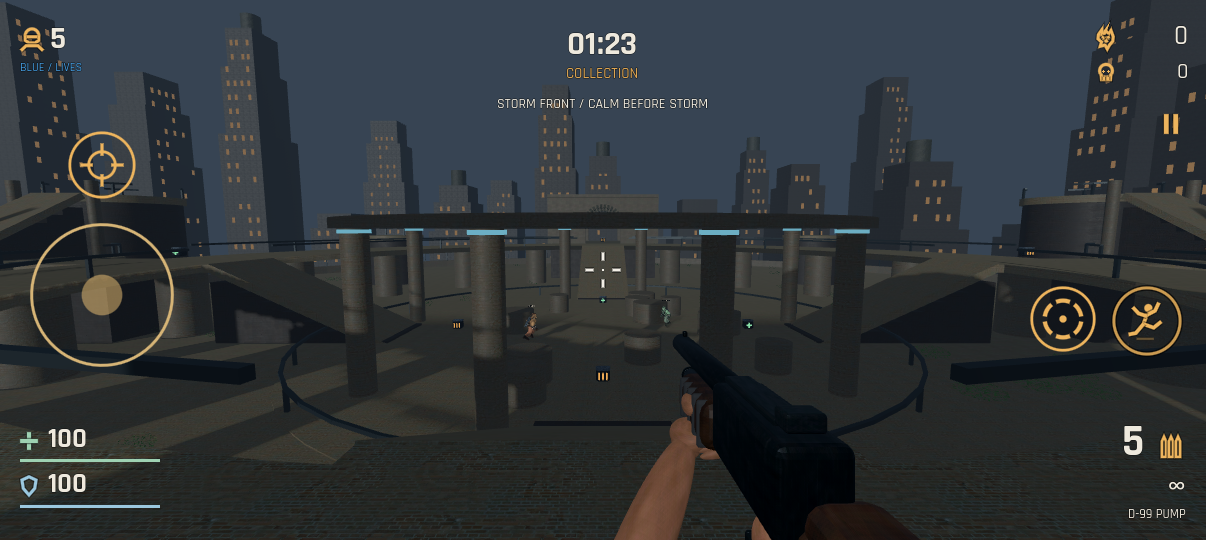
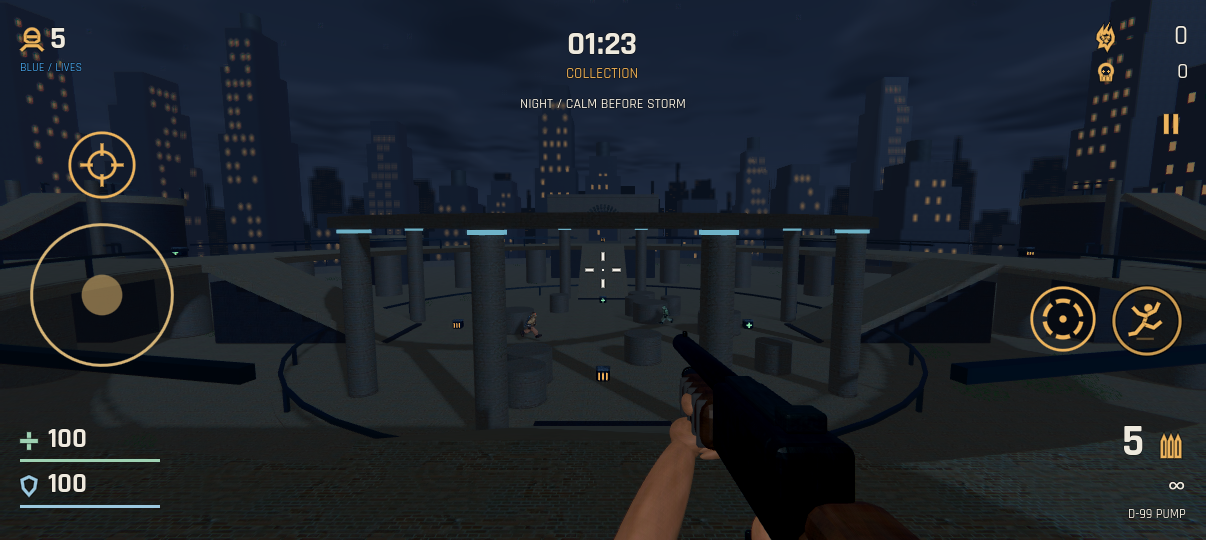
Add Nightfall sky clouds, stars and configurable soft lens effects

diff --git a/README.md b/README.md
@@ -2,9 +2,13 @@
 
 A dark sci-fi arena FPS set in a Neo-Prohibition New York for Android with free movement, portrait/landscape play, controller support, automatic soul rewards, and team deathmatches.
 
-**[Download APK — v0.12.0](https://github.com/Tweeksterr91/dominion-99-lite/releases/download/v0.12.0/dominion-99-lite.apk)** · **[Releases](https://github.com/Tweeksterr91/dominion-99-lite/releases)**
+**[Download APK — v0.13.0](https://github.com/Tweeksterr91/dominion-99-lite/releases/download/v0.13.0/dominion-99-lite.apk)** · **[Releases](https://github.com/Tweeksterr91/dominion-99-lite/releases)**
 
 Development prototype for the OnePlus 12R, built with Godot 4.6.3. Fixed **60 FPS cap**, automatic portrait/landscape rotation. Actual phone performance and Wi-Fi behavior still need device testing.
+
+![Stars, moon and clouds](docs/night-sky.png)
+
+![Visual settings](docs/visual-settings.png)
 
 ![Landscape controller HUD](docs/landscape.png)
 
@@ -89,6 +93,16 @@ The title and main menu have no shadow-gradient scrim; their live gameplay backg
 
 The shared borough maps are Canal Ward, Civic Undercroft, Ironworks, Verdant Conservatory and East River Docks. Original Art Deco sky silhouettes, 48 inaccessible stepped skyline buildings, amber windows and water towers establish the city backdrop. Small batched foliage patches and hanging vines add overgrowth. The environment caption uses names such as STORM FRONT or NIGHT, without a clock hour. Options persist aiming sensitivity from 50%–300% in 10% steps, with a 180% reset, invert aim, separate effects/music/ambience volumes, camera motion, and the screen-orientation preference. Everyone starts with a five-shell single-barrel pump shotgun **and a team-colored plasma scythe**. The shotgun has unlimited reserve ammunition and still reloads its magazine; the scythe has unlimited use with no reload. The sawed-off double-barrel upgrade costs 140 souls, has two shells and unlimited reserve, and stays selectable alongside the original pump. All seven weapons can be owned at once. The renamed Carbon Carbine and new Warden Sniper have separate original matte military-style models and shot sounds; neither has neon/emissive trim. The sniper costs 180 souls and cannot be bought by bots. The Pulse retains the sidearm model, while the Scattergun uses the pump model and six-pellet blasts. Tight Choke costs 45 souls per stack, reducing pump/double/scatter spread by 18% multiplicatively, up to three stacks. Purchased reload speed, health and armor upgrades/packs are removed; health pickups and regenerating shield remain, as do free RNG gifts. The weapon’s anatomical first-person arms use original PBR skin, steel, fabric and walnut textures. Portrait renders the hands and weapon separately with the same fixed vertical field of view used in landscape. Its full-screen projection keeps the barrel’s vanishing point at the actual crosshair. A tuned side/depth offset keeps the barrel, receiver and supporting hand visible while cropping excess forearm, independently of the world camera’s tall field of view. Shotgun pellets and enemy bolts travel visibly; collision, rather than an immediate hitscan, determines damage.
 
+## Sky and soft visual effects
+
+The city sky now includes sparse soft stars, a small textured moon and drifting clouds. The clouds integrate four samples through a shallow 3D density field in the sky shader, with denser cover in stormy weather. This is a lightweight sky-volume approximation for the Compatibility renderer, without full scene volumetrics or cloud shadows. Fog still softens the city but no longer hides the sky. Stars and moonlight are subdued at dusk and stronger at night; clouds obscure them naturally.
+
+**Options → Visual Settings** provides separate saved switches for soft bloom, depth of field, chromatic aberration and motion blur. All default on at restrained strengths; disabling all four removes the lens rendering pass. Camera Motion / Minimal is available on that screen too.
+
+The world lens uses one bounded screen/depth pass. Depth of field smoothly focuses on the crosshair's world hit, keeps the aim center and nearby weapons clear, and avoids mixing foreground/background silhouettes. Chromatic color separation stays at the screen edges, bloom gently lifts bright world highlights, and camera-motion blur is capped at 2.2 pixels with no temporal history/ghosting. Pausing, changing orientation, or teleporting/respawning clears the motion offset. This is a soft camera-turn blur, without object motion vectors. The HUD and menu text render after the lens pass and remain sharp. The portrait weapon overlay remains separate.
+
+The 60 FPS cap is retained. Shader compilation and effect behavior are tested with the real OpenGL Compatibility renderer; sustained OnePlus 12R performance and physical-device appearance still need testing. Effects can be disabled independently if desired. Offline visual settings pause gameplay; LAN keeps running.
+
 ## Weapon inventory
 
 Hold **LB** to open the wheel, choose an acquired weapon with the aiming stick or D-pad, and release LB to equip it. B cancels. Touch uses the circular wheel button beside jump; hold and drag to a slot, then release. On desktop, hold Tab and point with the mouse. The match continues while the wheel is open; movement, aim and firing are suppressed until it closes.
@@ -143,6 +157,7 @@ See [asset credits and licenses](ASSET_CREDITS.md). Original code, generated sce
 ## Validation and releases
 
 ```sh
+godot --headless --path . --script tests/soft_visuals_test.gd
 godot --headless --path . --script tests/borough_test.gd
 godot --headless --path . --script tests/free_arena_test.gd
 godot --headless --path . --script tests/free_biomes.gd
@@ -155,6 +170,8 @@ godot --headless --path . --script tests/match_rules_test.gd
 godot --headless --path . --script tests/ui_navigation.gd
 ```
 
-For the two-process LAN integration test, start `tests/lan_free_peer.gd -- host`, then `tests/lan_free_peer.gd -- client` in separate Godot processes on the same machine (UDP 27819). Both must report PASS. The test uses a landscape host, portrait guest, real ENet transport, controller movement/manual shots, synchronized conditions, shopping, shared rolls, hunting, and disconnected-player bot takeover. All LAN players must update to v0.12.0 (protocol 12). A second two-process test, `tests/lan_lock_peer.gd -- host` / `-- client` (UDP 27829), verifies optional LT acquisition, host-enforced charging, shooting and release between landscape/portrait peers. The two-process `tests/lan_reward_peer.gd -- host` / `-- client` test (UDP 27839) checks touch-only auto-fire, manual RT, killer-owned soul particles, automatic wallet credit and the removed harvest controls. The `tests/lan_armory_peer.gd -- host` / `-- client` pair (UDP 27849) verifies all-weapon purchases, LB selection, ammo persistence, unlimited melee and red/blue scythe visuals across landscape/portrait peers. Older rail tests explicitly use `tests/legacy_fixture.gd` to cover the reusable earlier systems.
+Run `godot --path . --script tests/soft_lens_render.gd` with a real display to verify GPU depth separation, bloom, chromatic separation, camera blur/reset and unaffected HUD pixels. Do not use `--headless` for that rendering test.
+
+For the two-process LAN integration test, start `tests/lan_free_peer.gd -- host`, then `tests/lan_free_peer.gd -- client` in separate Godot processes on the same machine (UDP 27819). Both must report PASS. The test uses a landscape host, portrait guest, real ENet transport, controller movement/manual shots, synchronized conditions, shopping, shared rolls, hunting, and disconnected-player bot takeover. LAN protocol remains 12, compatible with v0.12.0. A second two-process test, `tests/lan_lock_peer.gd -- host` / `-- client` (UDP 27829), verifies optional LT acquisition, host-enforced charging, shooting and release between landscape/portrait peers. The two-process `tests/lan_reward_peer.gd -- host` / `-- client` test (UDP 27839) checks touch-only auto-fire, manual RT, killer-owned soul particles, automatic wallet credit and the removed harvest controls. The `tests/lan_armory_peer.gd -- host` / `-- client` pair (UDP 27849) verifies all-weapon purchases, LB selection, ammo persistence, unlimited melee and red/blue scythe visuals across landscape/portrait peers. Older rail tests explicitly use `tests/legacy_fixture.gd` to cover the reusable earlier systems.
 
 Every update gets a numbered GitHub Release with a new APK. Increase `version/code` and `version/name`, keep the original signing key outside the repository, and verify the APK before upload. Current builds use development signing; store distribution requires release signing.

diff --git a/RELEASE_NOTES.md b/RELEASE_NOTES.md
@@ -1,15 +1,12 @@
-# v0.12.0 — Boroughs & Careers
+# v0.13.0 — Nightfall
 
-- Neo-Prohibition New York art foundation: stepped Art Deco skyline silhouettes, 48 inaccessible 3D backdrop buildings, water towers, amber windows, small foliage patches and vines. Structural piers, tower bases and masonry supports make raised paths part of buildings. A lower roof catches missed jumps; an outer fence/boundary keeps players inside while leaving skyline views open.
-- Expanded, shared random spawn pool for players, bots and minions. Spawn candidates are validated against navigation and collision after baking, with separation checks to reduce crowding.
-- One match cycle: 82.5-second collection, up to 30-second armory, 3-second shared gift reveal and 82.5-second hunting. Five lives each. Removed round-number HUD; time of day uses descriptive labels without clock hours. Opening weather reveal remains 6 seconds.
-- Armory hides owned weapons. Tight Choke costs 45 souls per stack, reducing shotgun spread 18% per stack, up to three stacks. Removed purchasable reload-speed, health and armor upgrades/packs; damage and ammo purchases remain. Free RNG gifts and map health pickups remain.
-- Carbon Carbine replaces the Needle name and gets an original textured matte military model. Added Warden Sniper: 180 souls, five rounds, 110 base damage and slower cadence, with a scoped military model. Bots cannot buy it. Both have original shot sounds; the wheel supports all seven weapons. Scattergun now uses six visible shotgun pellets.
-- Directional red damage edges track the incoming shot relative to the player's view and replicate over LAN.
-- Heroes / Campaigns foundation: 24 named profiles (8 male, 8 female, 4 anthropomorphic, 4 robotic), individual bios, five named chapters apiece, unique shared-map routes and career objectives. Independent saved wins, frags, souls and unlocks; existing campaign progress migrates to Rook. Heroes currently share the Sentinel combat model: this update does not include 24 finished character meshes or cinematic campaigns.
+- Added sparse soft stars and a modest textured moon to the city sky. Night has the strongest celestial detail, dusk is subdued, and cloud cover obscures stars/moonlight.
+- Added slowly drifting sky clouds with shallow 3D density integration and soft lighting. Denser cloud settings follow stormy weather. These are lightweight ray-marched sky volumes for Android's existing Compatibility renderer, without full scene volumetrics or cloud shadows. Reduced fog's sky contribution so celestial details and clouds remain visible while the city retains haze.
+- Added restrained world-only soft bloom, depth-aware depth of field, edge chromatic aberration and camera-turn motion blur. Crosshair focus follows actual world hits smoothly; nearby geometry and the aim center stay clear. Depth checks prevent distant blur bleeding across nearby silhouettes. Motion blur is bounded to 2.2 pixels, clears on pause/cuts/rotation and has no temporal history or object motion vectors. HUD and menu text stay sharp; portrait weapons remain on their separate overlay.
+- Options → Visual Settings has four independent saved effect switches, all default on. Turning all off removes the lens pass. Camera Motion / Minimal moved to that screen. Offline settings pause the match; LAN stays live.
 
-Install `dominion-99-lite.apk` over the existing game to retain settings/careers. Same package/signing identity, versionCode 17. **All LAN players must update to v0.12.0** (protocol 12).
+Install `dominion-99-lite.apk` over the current game. Same package/signing key, versionCode 18. LAN protocol stays 12, compatible with v0.12.0. The 60 FPS cap remains; actual OnePlus 12R performance/appearance and Backbone feel still need device testing.
 
-Validation: shared spawn/navigation and safe-boundary checks; five maps; one-match flow; owned shop filtering and choke spread; rifle visibility/materials and bot sniper restriction; four damage directions, aim rotation and fading; 24 unique hero routes and independent saved campaign progress; touch/controller movement, reload/lock, weapon wheel, inventory and portrait/landscape framing. Two actual local Godot processes test 4v4 flow/economy, lock-on, killer rewards and the seven-weapon armory with directional damage replication. Android/Backbone feel and actual phone performance still need device testing.
+Validation: real OpenGL Compatibility rendering checks demonstrate distant depth blur with unchanged near geometry, bloom highlights, chromatic edge separation, motion blur/reset and unchanged HUD pixels. Settings persistence, physical crosshair focus, motion bounds/cut/rotation resets, both menu orientations, offline pause, five map conditions, portrait weapon framing, controls and navigation checks pass. Two actual local Godot processes verify 4v4 gameplay and that multiplayer keeps progressing behind visual settings.
 
-Original new models, synthesized audio, city geometry/sky, emblems and career content use MIT. Full notices: ASSET_CREDITS.md.
+Original sky and lens shaders/code use MIT. All component notices: ASSET_CREDITS.md. Source archive and screenshots are attached.

diff --git a/docs/ART_DIRECTION.md b/docs/ART_DIRECTION.md
@@ -1,3 +1,11 @@
+# Nightfall (v0.13.0)
+
+Sparse soft stars and a small procedural moon sit behind slowly drifting, density-integrated sky clouds. Four samples through a shallow 3D noise field suggest cloud depth on the existing mobile Compatibility renderer; this is not full scene volumetric fog/cloud shadows. Lower sky fog influence preserves celestial detail without removing the city haze.
+
+One restrained lens pass adds bright-pass bloom, smoothly focused depth of field, edge chromatic separation and bounded camera-turn blur. The crosshair's central region, near geometry and HUD remain clear. There is no temporal smear/history or object-vector blur. Each effect has a saved toggle in Visual Settings, and all-off removes the pass. Physical-device performance must still be evaluated.
+
+Earlier iteration notes follow.
+
 # Boroughs & Careers (v0.12.0)
 
 Neo-Prohibition New York is the new setting foundation. Stepped Art Deco skyline silhouettes and 48 distant 3D buildings with amber windows and water towers surround the rooftop arenas. Existing materials remain; piers, plinths, column bases and masonry ramp cheeks tie elevated walkways to larger structures. A lower rooftop closes former void gaps. The perimeter keeps fighters inside while preserving the city view. Small batched foliage patches and hanging vines suggest reclaimed buildings.

diff --git a/ASSET_CREDITS.md b/ASSET_CREDITS.md
@@ -90,3 +90,7 @@ Minion variants continue to use the adapted Sinbad creature by Zi Ye under **CC 
 The Carbon Carbine and Warden Sniper GLBs and extracted material PNGs are original MIT project content, built by `art_sources/build_military_rifles.py` using the original steel PBR maps. Their new shot effects are original sample-free synthesis from `art_sources/build_military_audio.py`.
 
 The procedural Art Deco city sky, stepped skyline buildings, structural foundations, vines and foliage, directional damage UI, hero emblems, names and career chapter text are original MIT project content. The 24 profiles currently share the existing Sentinel combat model; the roster is not a collection of 24 finished character meshes.
+
+## Nightfall sky and soft lens (v0.13.0)
+
+The procedural stars, small moon, 3D-density sky clouds and screen/depth lens shader are original MIT project code. No photographic sky, moon textures or third-party post-processing packages were added. Moon surface variation and clouds are synthesized in the shader. The lens/settings UI use the same original project code and existing OFL font.
